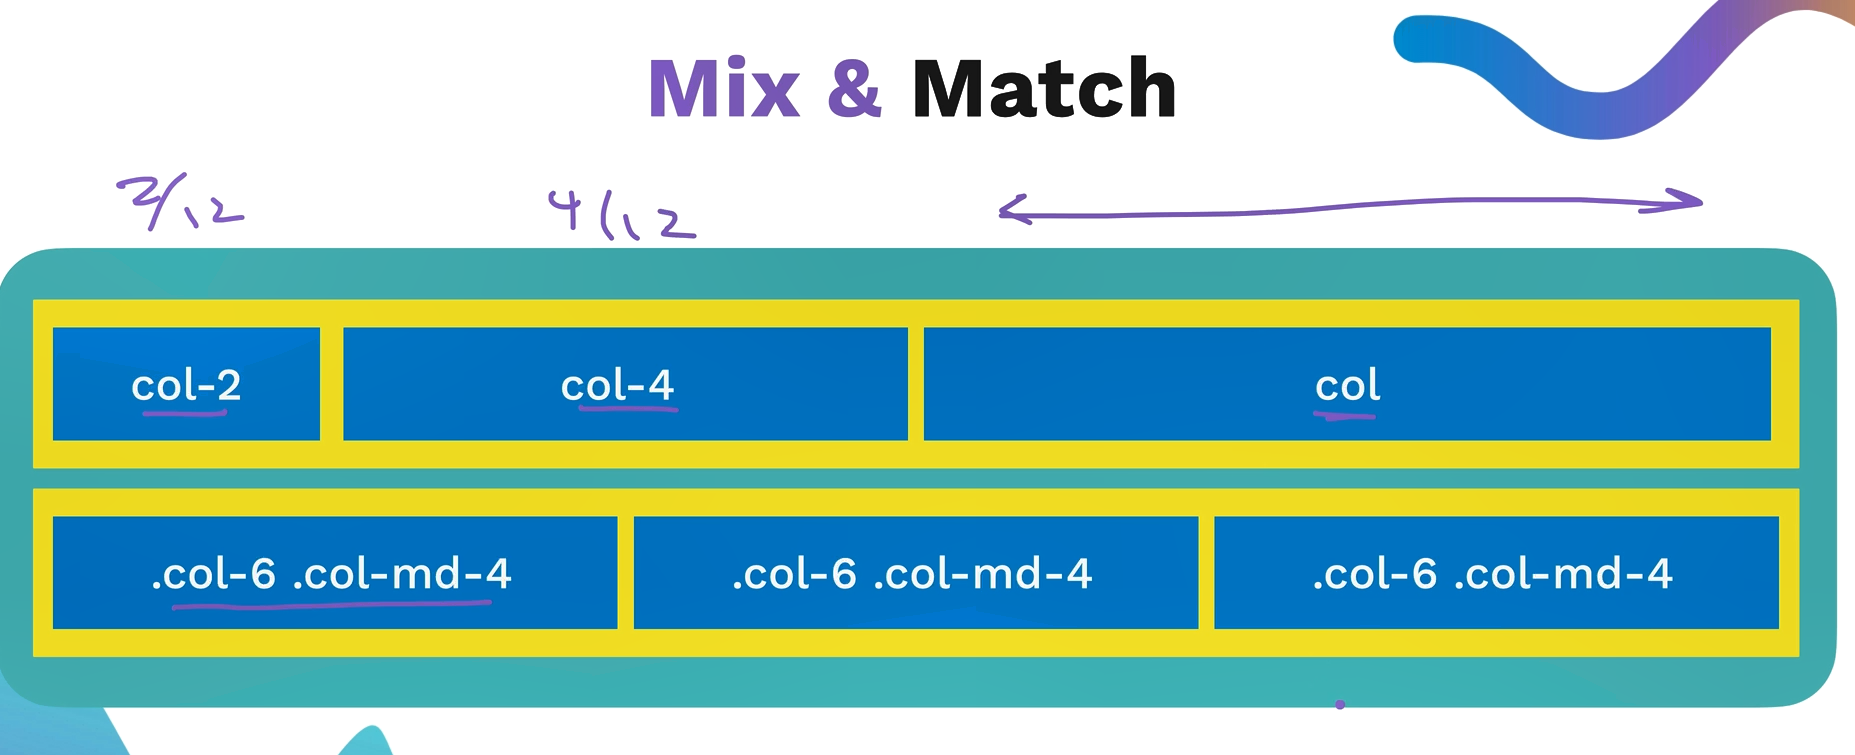
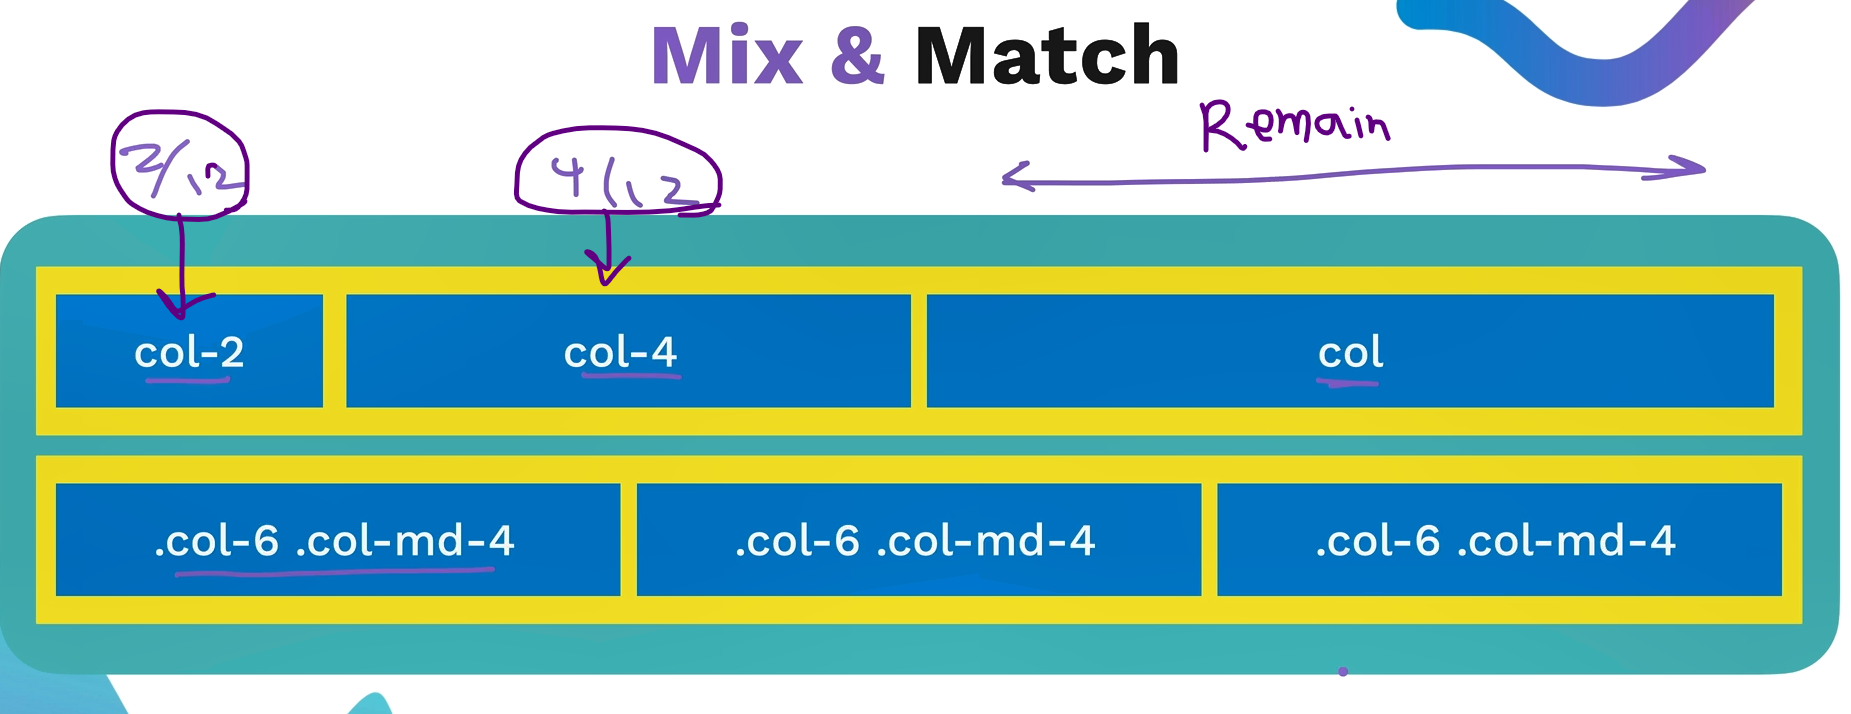
Bootstrap : bootcamp "update Layout"                             => Exercices in git hub

diff --git a/bootstrap/README.md b/bootstrap/README.md
@@ -391,8 +391,16 @@ One of Bootstrap's features is its auto-fitting capability; <br>it automatically
 🔔"col-lg-4" for small screens<br>
 ![Page 19](/bootstrap/pic/layout10.png) <br>
 
+──────────────── ⋆⋅𖤓⋅⋆ ────────────────
 
+>💠--- **Mix and Match** ---💠<br>
+![Page 19](/bootstrap/pic/layout11.png)
 
+──────────────── ⋆⋅𖤓⋅⋆ ────────────────
+>💠--- **Exercice** ---💠<br>
+🔔as you reduce the width , you can watch different<br>
+![Page 19](/bootstrap/pic/layout12.png)
+https://appbrewery.github.io/bootstrap-layout/
 
 
 